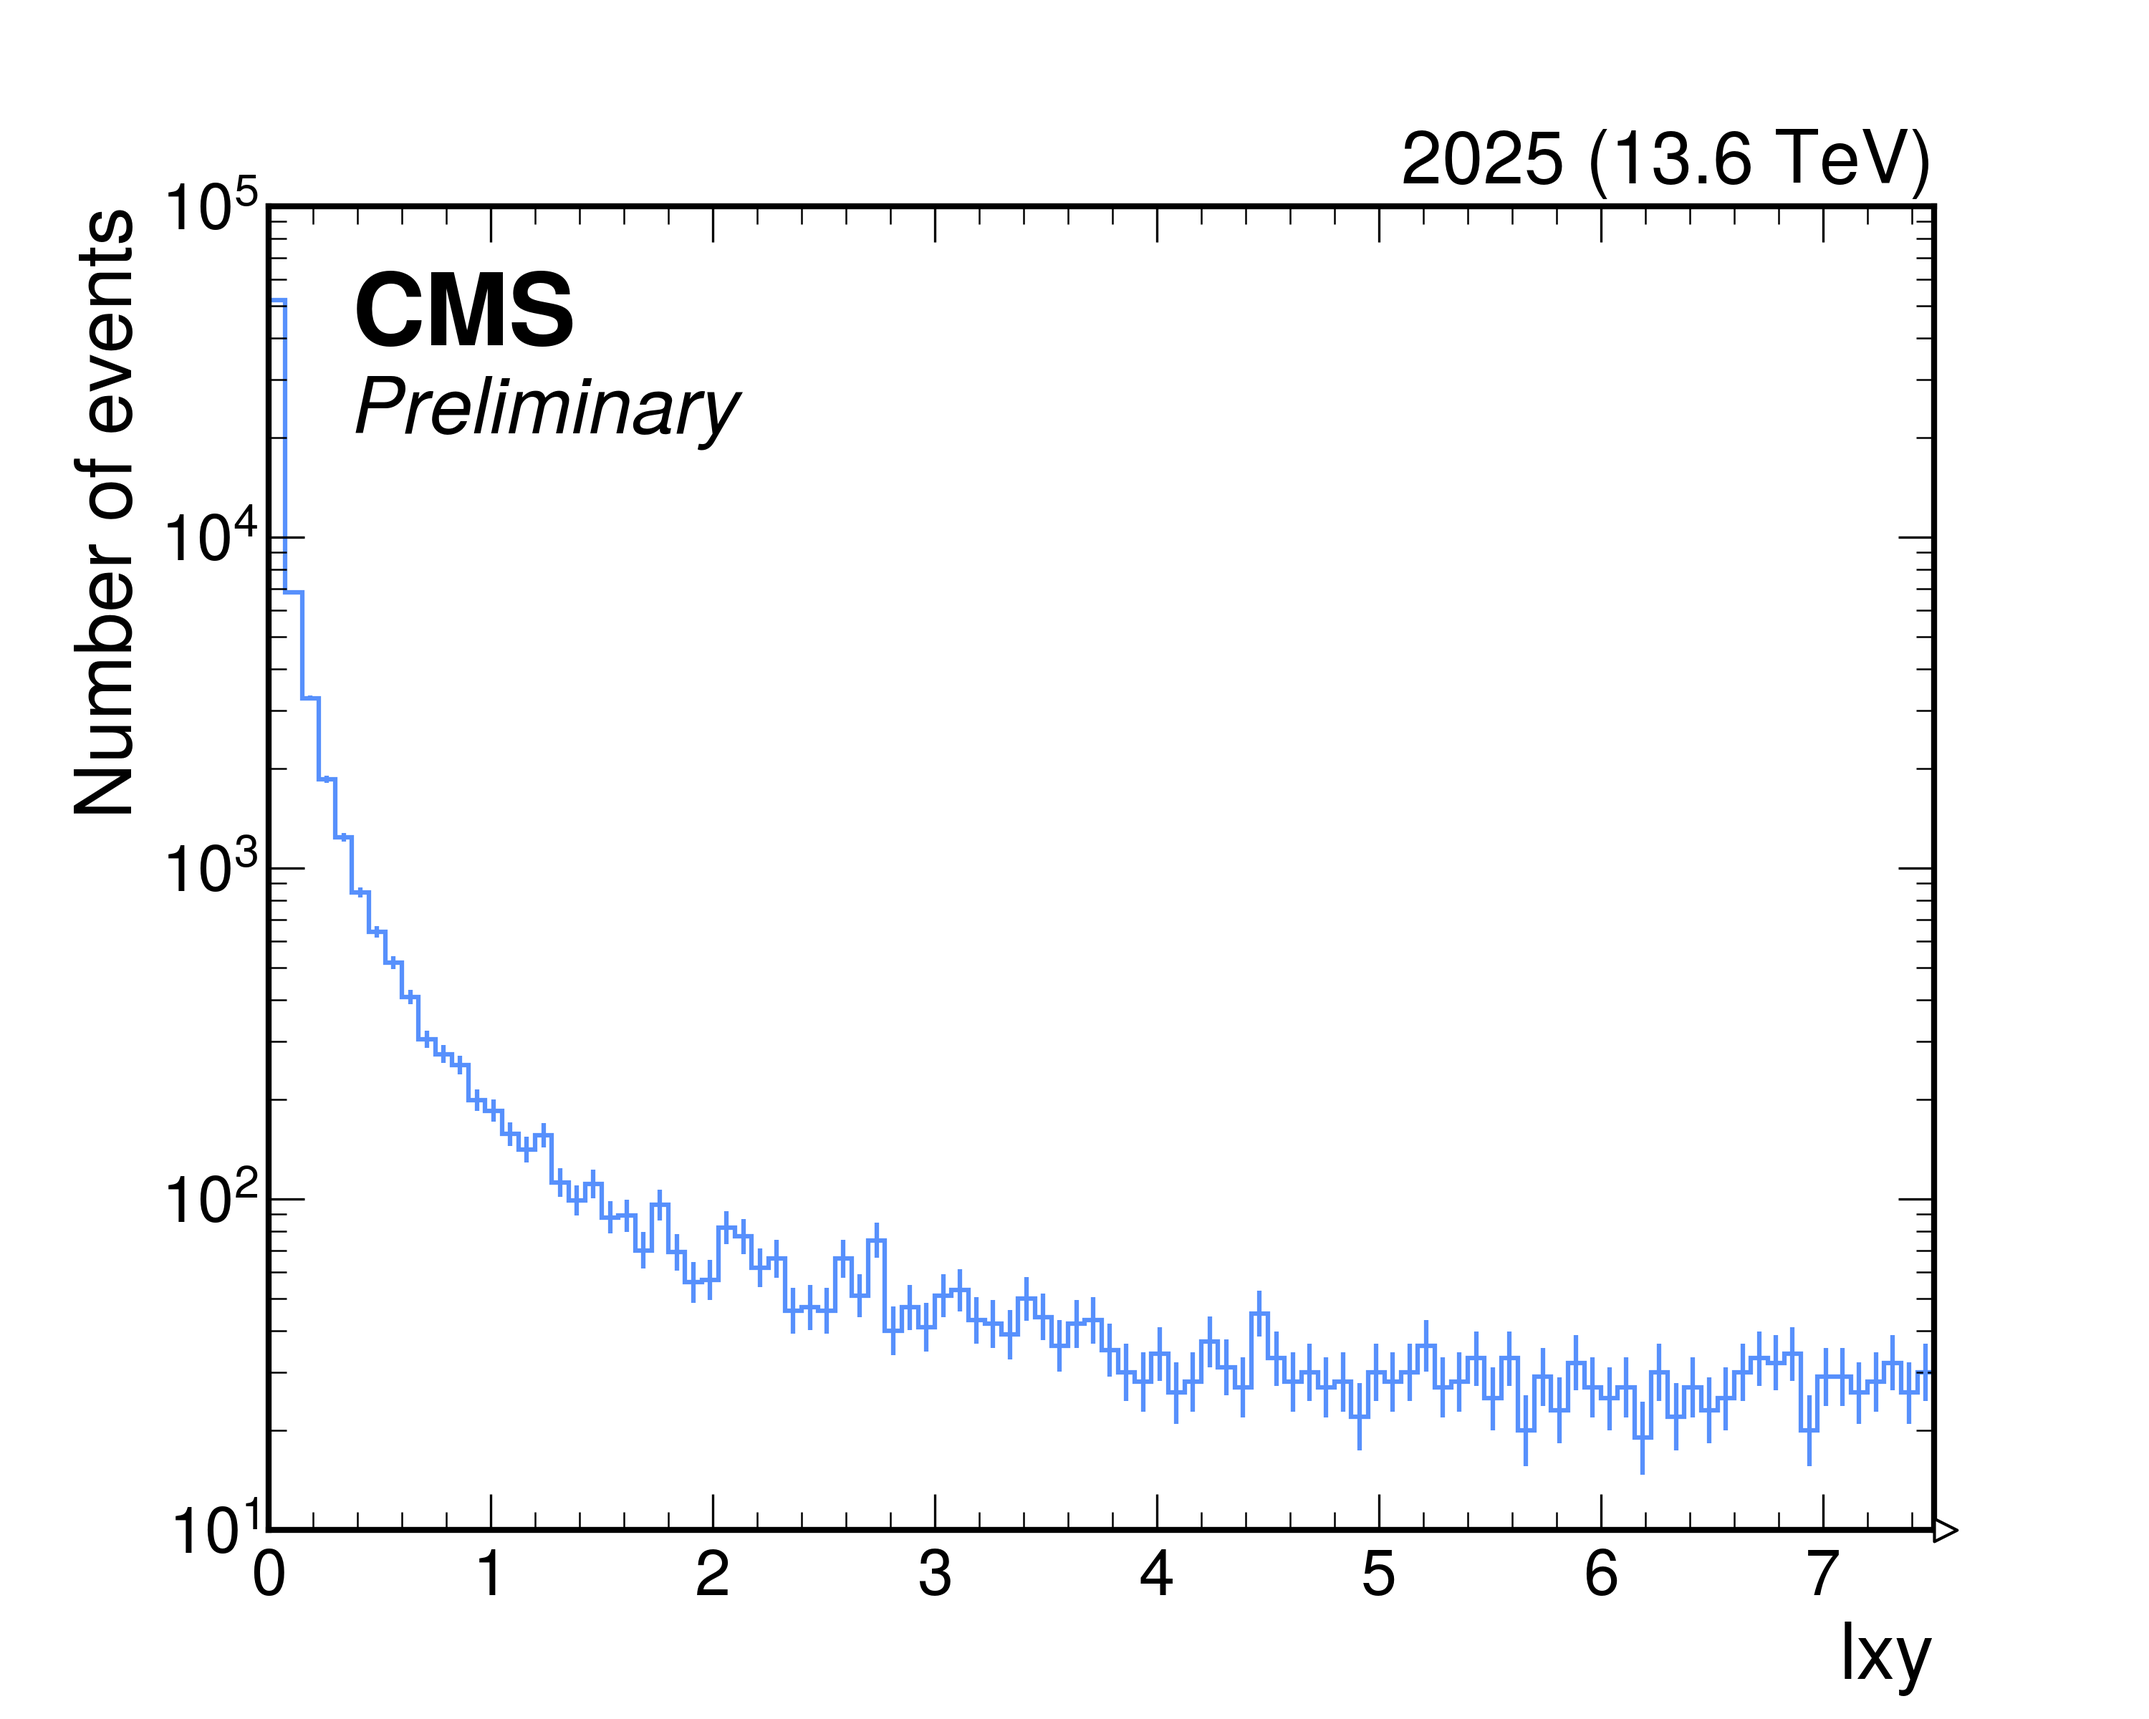
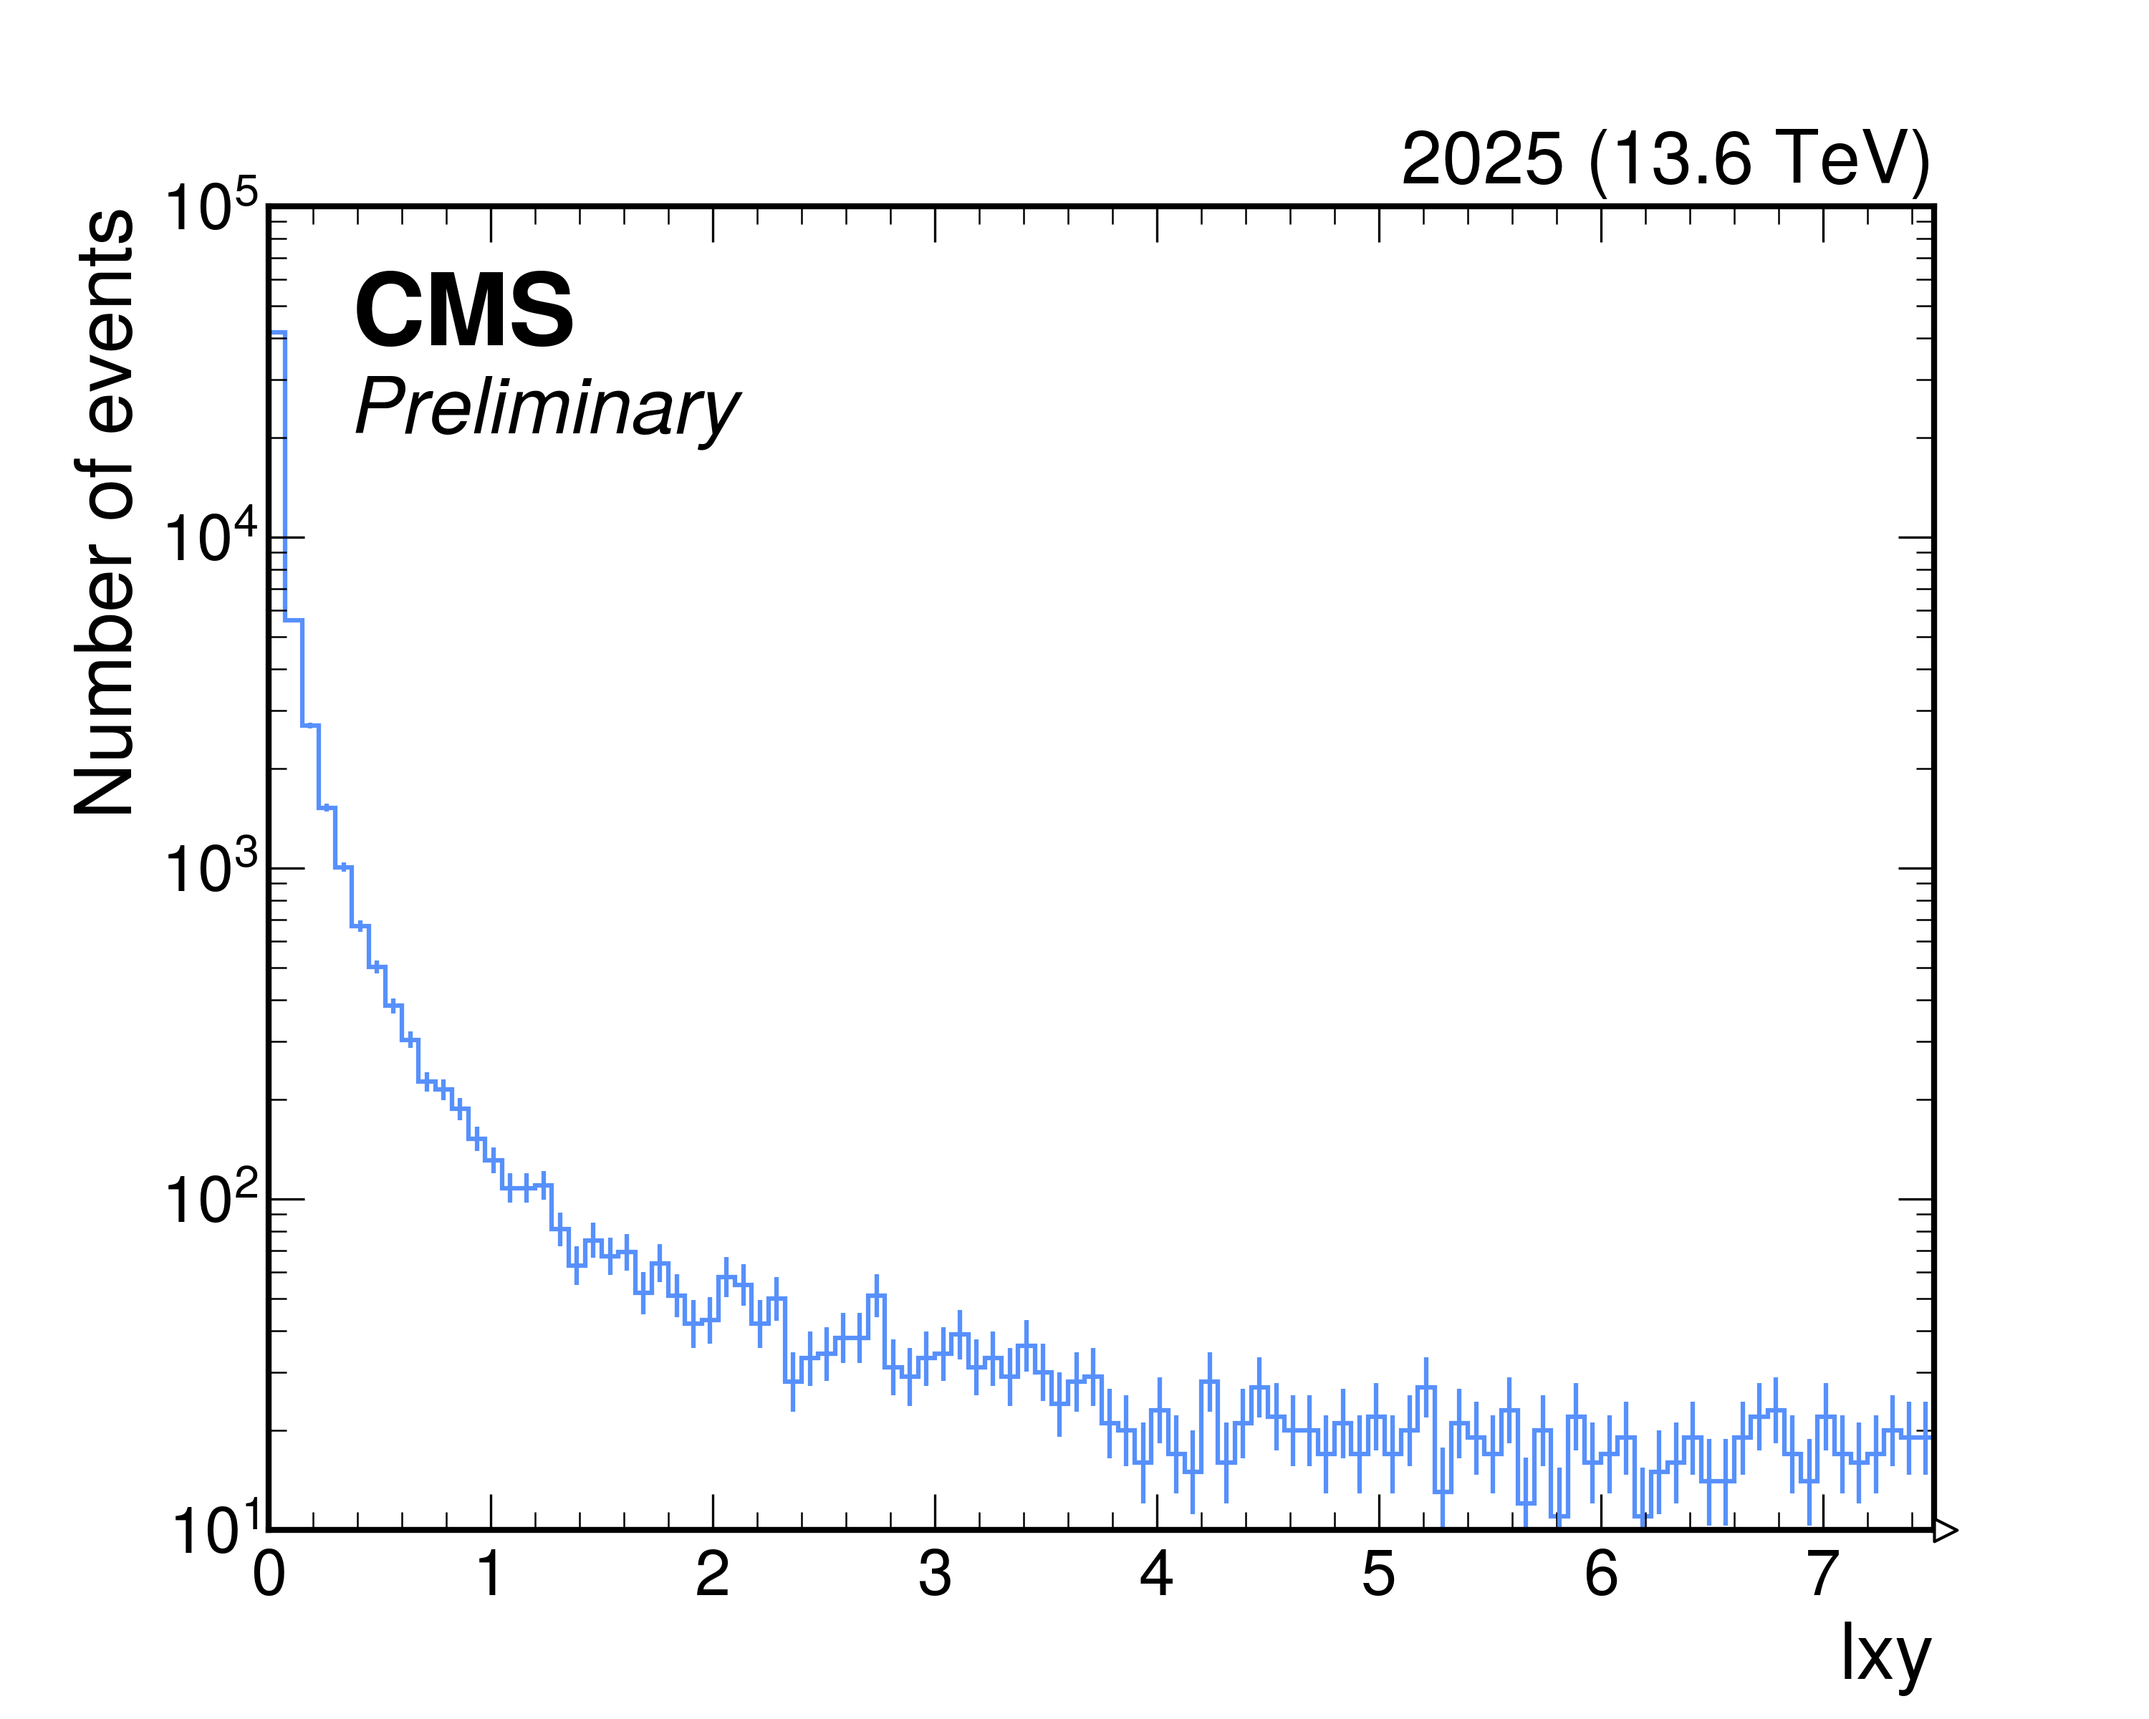
Revert filter removal - no changes

Changed region(s): [[0.186, 0.5625, 0.899, 0.875], [0.155, 0.5, 0.186, 0.5625]]

diff --git a/make.py b/make.py
@@ -88,25 +88,24 @@ finally:
 
             ## Filter by trigger
             #TrgOR
-            '''
             mask = ak.zeros_like(events[TRIGGER[0]], dtype=bool)
             for trigger in TRIGGER:
                 mask = np.array(mask) | np.array(events[trigger])
             events = events[mask]
-            '''
+            
             print(f"> {len(events)} events survive the filter") # 500_206 events survive from Vtx TrgOR
             # 356_664 events survive NoVtx TrgNoVtx
             print("~\nFirst event: events[0]")
             print(events[0])
-            with open (outdir+"/large_pickles/events%sPickleUnfiltered.pkl"%(MUON), "wb") as pickleOut:
+            with open (outdir+"/large_pickles/events%sPickle.pkl"%(MUON), "wb") as pickleOut:
                 pickle.dump(events, pickleOut)
             pickleIndex += 1
     else: # if not rereading the original unfiltered file
-        with open (outdir+"/large_pickles/events%sPickleUnfiltered.pkl"%(MUON), "rb") as pickleIn:
+        with open (outdir+"/large_pickles/events%sPickle.pkl"%(MUON), "rb") as pickleIn:
             events = pickle.load(pickleIn)
         print(f"> Opened filtered sample with {len(events)} events") # 500_206 events Vtx TrgOR, # 356_664 events NoVtx TrgNoVtx
 ###################################################
-'''
+
 for branch in events.fields:
     print(f"{branch}:")
     try:
@@ -180,7 +179,7 @@ has_neg = ak.any(charges < 0, axis=1)
 keep_mask = has_pos & has_neg
 events = events[keep_mask]
 print(f"> Events with at least one pair of opposite charges: {len(events)}") 
-'''
+
 # print(events["ScoutingMuon%s_charge"%(MUON)])
 # print(events["ScoutingMuon%s_trk_hitPattern_hitCount"%(MUON)])
 # print(events["ScoutingMuon%s_trk_chi2"%(MUON)])
